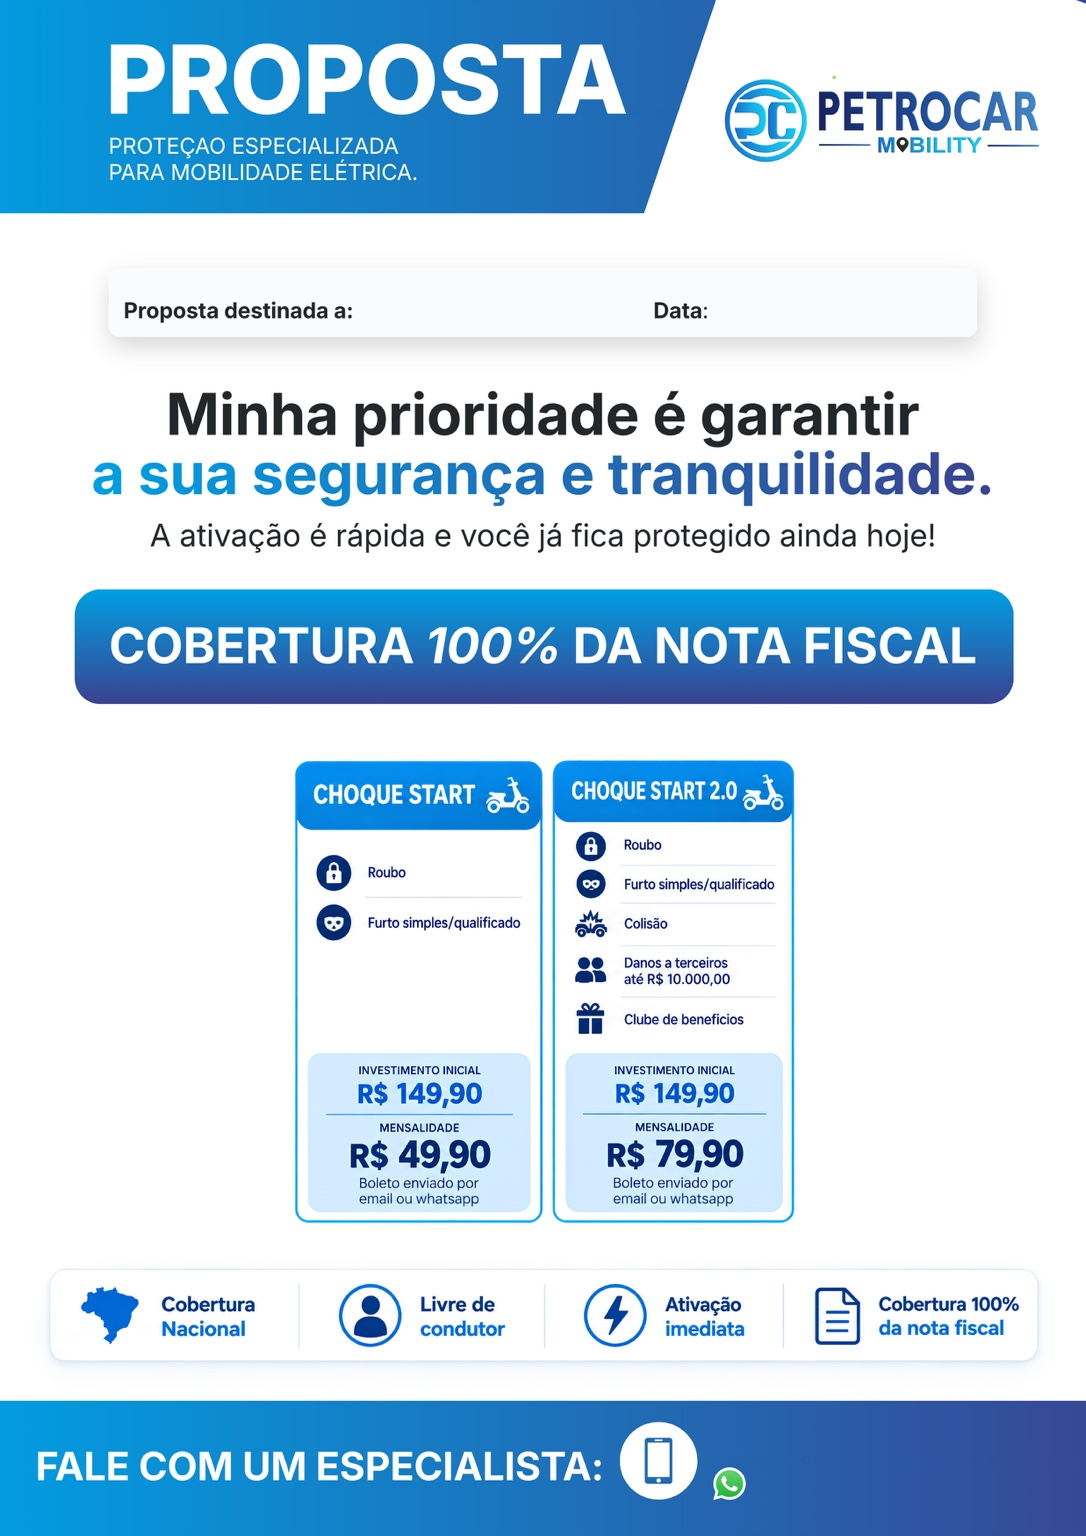
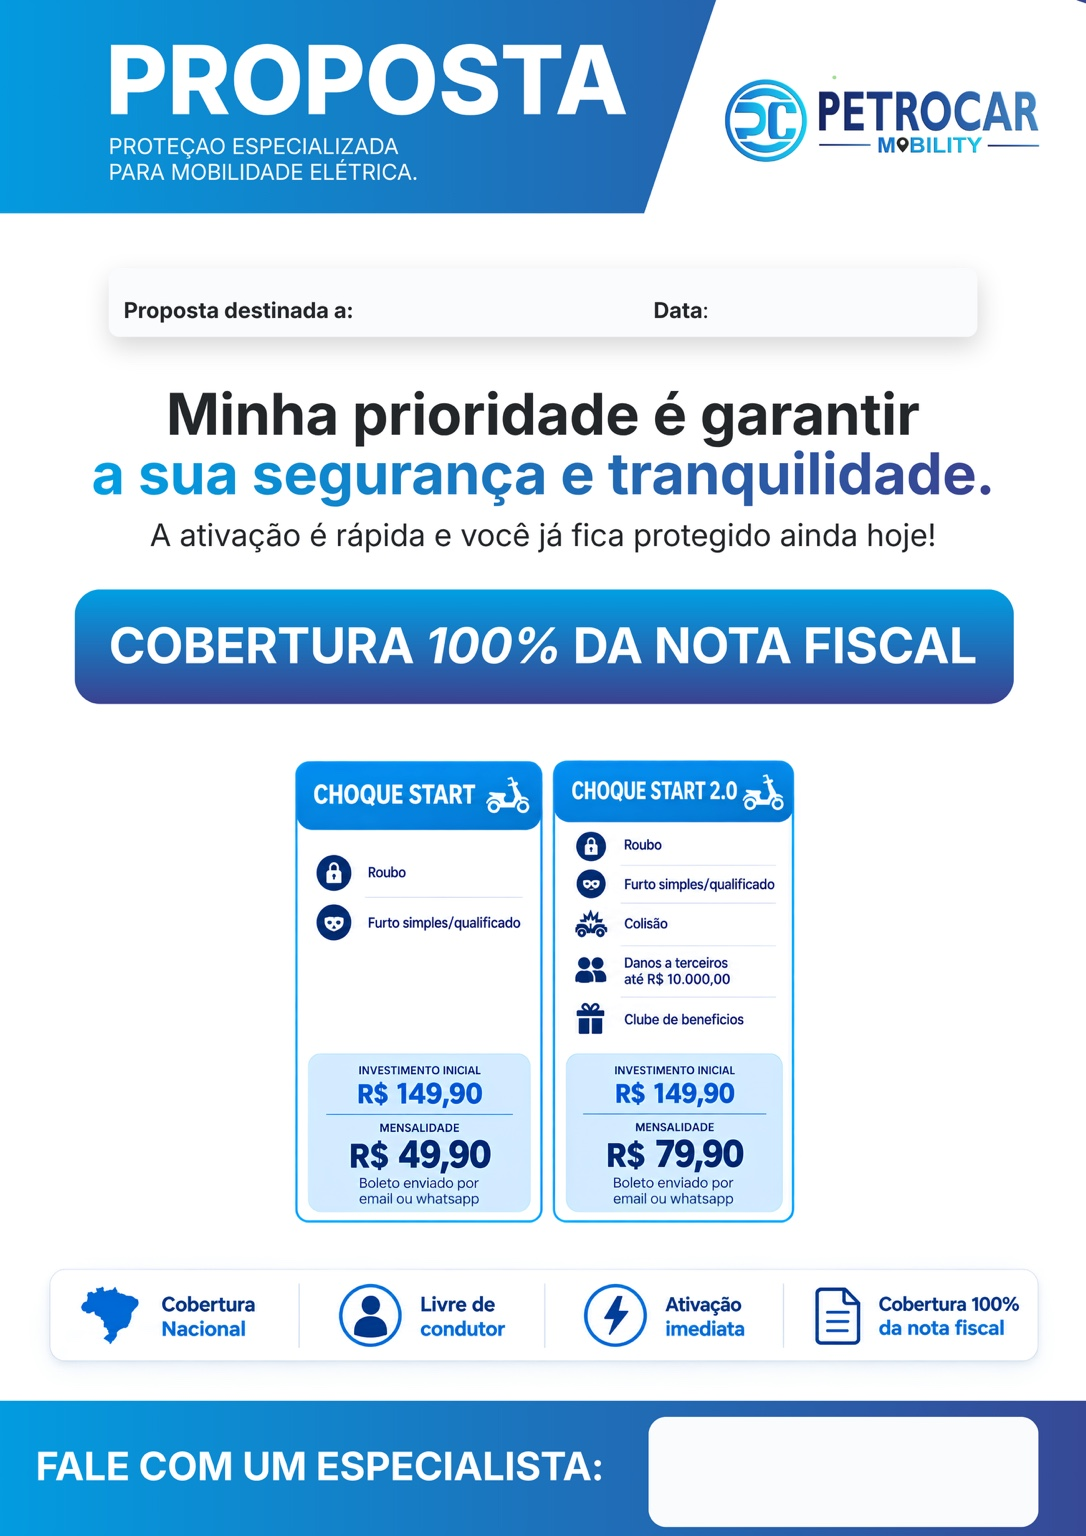
Add files via upload

diff --git a/index.html b/index.html
@@ -58,16 +58,16 @@
         <label for="consultor">Nome do consultor</label>
         <input id="consultor" type="text" placeholder="Ex.: Karen Carvalho" autocomplete="off" />
 
-        <label for="telefone">Telefone do consultor</label>
+        <label for="telefone">Telefone do consultor / WhatsApp</label>
         <input id="telefone" type="text" placeholder="Ex.: (22) 99830-2121" autocomplete="off" />
-        <div class="mini">O nome entra na faixa azul inferior em branco, e o telefone entra logo abaixo ao lado do ícone do WhatsApp.</div>
+        <div class="mini">O nome e o telefone/WhatsApp entram centralizados no quadro branco inferior.</div>
 
         <div class="actions">
           <button id="pdf" class="primary" type="button">Gerar PDF</button>
           <button id="png" class="secondary" type="button">Baixar imagem</button>
         </div>
 
-        <p class="hint">Sudeste usa a arte com 4 planos. Nacional usa a arte com 2 planos. O nome do cliente e a data entram no topo, e o nome/telefone do consultor entram automaticamente na faixa azul inferior.</p>
+        <p class="hint">Sudeste usa a arte com 4 planos. Nacional usa a arte com 2 planos. O nome do cliente e a data entram no topo, e o nome/telefone do consultor entram centralizados no quadro branco inferior.</p>
       </section>
 
       <section class="preview"><canvas id="canvas" width="1086" height="1536"></canvas></section>
@@ -93,10 +93,10 @@
     const POS = {
       width: 1086,
       height: 1536,
-      nomeCliente: { x: 405, y: 311, maxWidth: 235, font: 19, min: 12, color: '#1f2430', weight: 600 },
-      data: { x: 738, y: 311, maxWidth: 150, font: 19, min: 12, color: '#1f2430', weight: 600 },
-      nomeConsultor: { x: 792, y: 1431, maxWidth: 235, font: 24, min: 15, color: '#ffffff', weight: 700 },
-      telefone: { x: 792, y: 1472, maxWidth: 245, font: 20, min: 13, color: '#ffffff', weight: 700 }
+      nomeCliente: { x: 405, y: 311, maxWidth: 235, font: 19, min: 12, color: '#1f2430', weight: 600, align:'left' },
+      data: { x: 738, y: 311, maxWidth: 150, font: 19, min: 12, color: '#1f2430', weight: 600, align:'left' },
+      nomeConsultor: { x: 842, y: 1414, maxWidth: 300, font: 31, min: 17, color: '#1b3f8a', weight: 700, align:'center' },
+      telefone: { x: 842, y: 1462, maxWidth: 305, font: 25, min: 15, color: '#1b3f8a', weight: 700, align:'center' }
     };
 
     function today(){
@@ -131,10 +131,13 @@
     function drawText(text, opts){
       if(!text) return;
       const size = fitFont(text, opts.maxWidth, opts.font, opts.min, opts.weight);
+      ctx.save();
       ctx.font = `${opts.weight || 600} ${size}px Arial`;
       ctx.fillStyle = opts.color;
       ctx.textBaseline = 'middle';
+      ctx.textAlign = opts.align || 'left';
       ctx.fillText(text, opts.x, opts.y);
+      ctx.restore();
     }
 
     function draw(){
